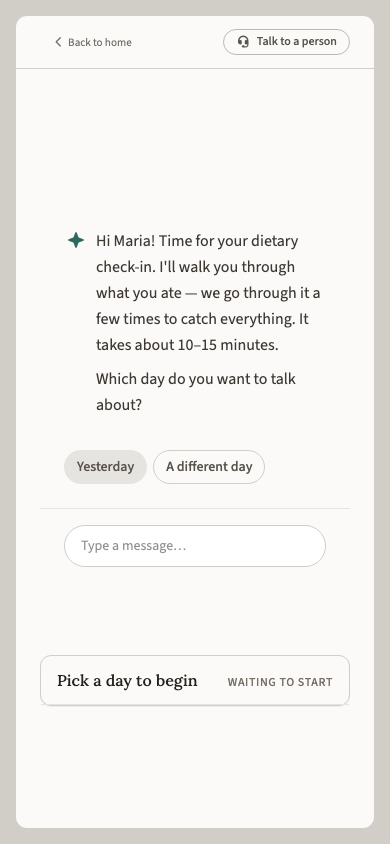
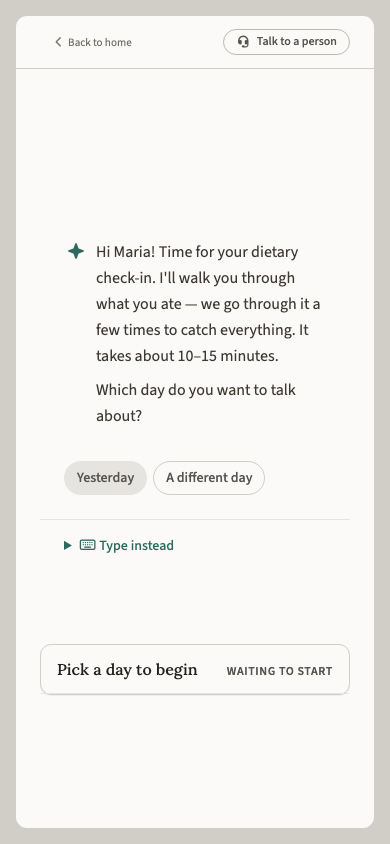
patient-app(recall): demote recall-entry free-text to a summonable affordance (F1)
Resolves the IA F1 watch-item per the Grief-Context UX dispatch (independent
verdict, converged + sharpened). recall.entry now LEADS with the day-picker chips;
the standing "Type a message…" chat bar is demoted to a low-emphasis native
<details> "Type instead" summon (closed by default, expands on tap; no JS,
file://-safe). Day-selection is closed/chip-enumerable, so a standing chat field
belonged at the wrong step; free text keeps its prominence at Pass 1 (food-naming),
unchanged. Label is a placeholder pending Plain Language Positioning. render PASS.

diff --git a/handoff/cena-uconn/dietary-recall/recall.entry.html b/handoff/cena-uconn/dietary-recall/recall.entry.html
@@ -67,8 +67,16 @@
 
                   </div>
                 </div>
+                <!-- F1 (2026-05-25, Grief-Context UX): entry leads with the chips above; the free-text
+                     input is DEMOTED to a summonable, low-emphasis affordance (closed by default,
+                     expands on tap). Day-selection is closed/chip-enumerable, so a standing chat
+                     field belonged at the wrong step. Native <details> — no JS, file://-safe.
+                     Label "Type instead" is a placeholder pending Plain Language Positioning. -->
                 <div class="chat-input-area">
-                  <input type="text" placeholder="Type a message…" aria-label="Type a message to your care assistant" />
+                  <details>
+                    <summary class="text-link"><i class="fa-regular fa-keyboard" aria-hidden="true"></i> Type instead</summary>
+                    <input type="text" placeholder="Type your answer…" aria-label="Type your answer instead of tapping a choice" />
+                  </details>
                 </div>
               </section>
 

diff --git a/workflows/cena-uconn-patient-app/slots/_agent-flows/render/dietary-recall-recall.entry/render-check.md b/workflows/cena-uconn-patient-app/slots/_agent-flows/render/dietary-recall-recall.entry/render-check.md
@@ -1,7 +1,7 @@
 # Render Check — recall.entry.html
 
 - **Source:** `/Users/aaronsleeper/Vaults/Lab/haven-ui/handoff/cena-uconn/dietary-recall/recall.entry.html`
-- **Rendered:** 2026-05-25T17:00:25.242Z
+- **Rendered:** 2026-05-25T17:40:47.936Z
 - **Tool:** `render-check.mjs` — slot-22 render sub-step (Principle 13), assertion-free
 - **Viewports:** desktop 1280×900, mobile 390×844
 - **Verdict:** PASS
@@ -17,13 +17,13 @@ _From the desktop render (1280×900)._
 | href | loaded | introspectable | rules |
 | --- | --- | --- | --- |
 | `https://fonts.googleapis.com/css2?family=Lora:wght@400;500;600;700&family=Source+Sans+3:wght@300;400;500;600;700&family=Source+Code+Pro:wght@400;500;600&display=swap` | yes | no (opaque) | — |
-| `file:///Users/aaronsleeper/Vaults/Lab/haven-ui/handoff/cena-uconn/assets/haven.css` | yes | yes | 7953 |
+| `file:///Users/aaronsleeper/Vaults/Lab/haven-ui/handoff/cena-uconn/assets/haven.css` | yes | yes | 7956 |
 
 Stylesheet load failures — pass: no failed stylesheet requests.
 
 ### Undefined classes
 
-Undefined classes — pass: all 32 markup classes resolve to a CSS rule.
+Undefined classes — pass: all 37 markup classes resolve to a CSS rule.
 
 ## Per-viewport checks
 